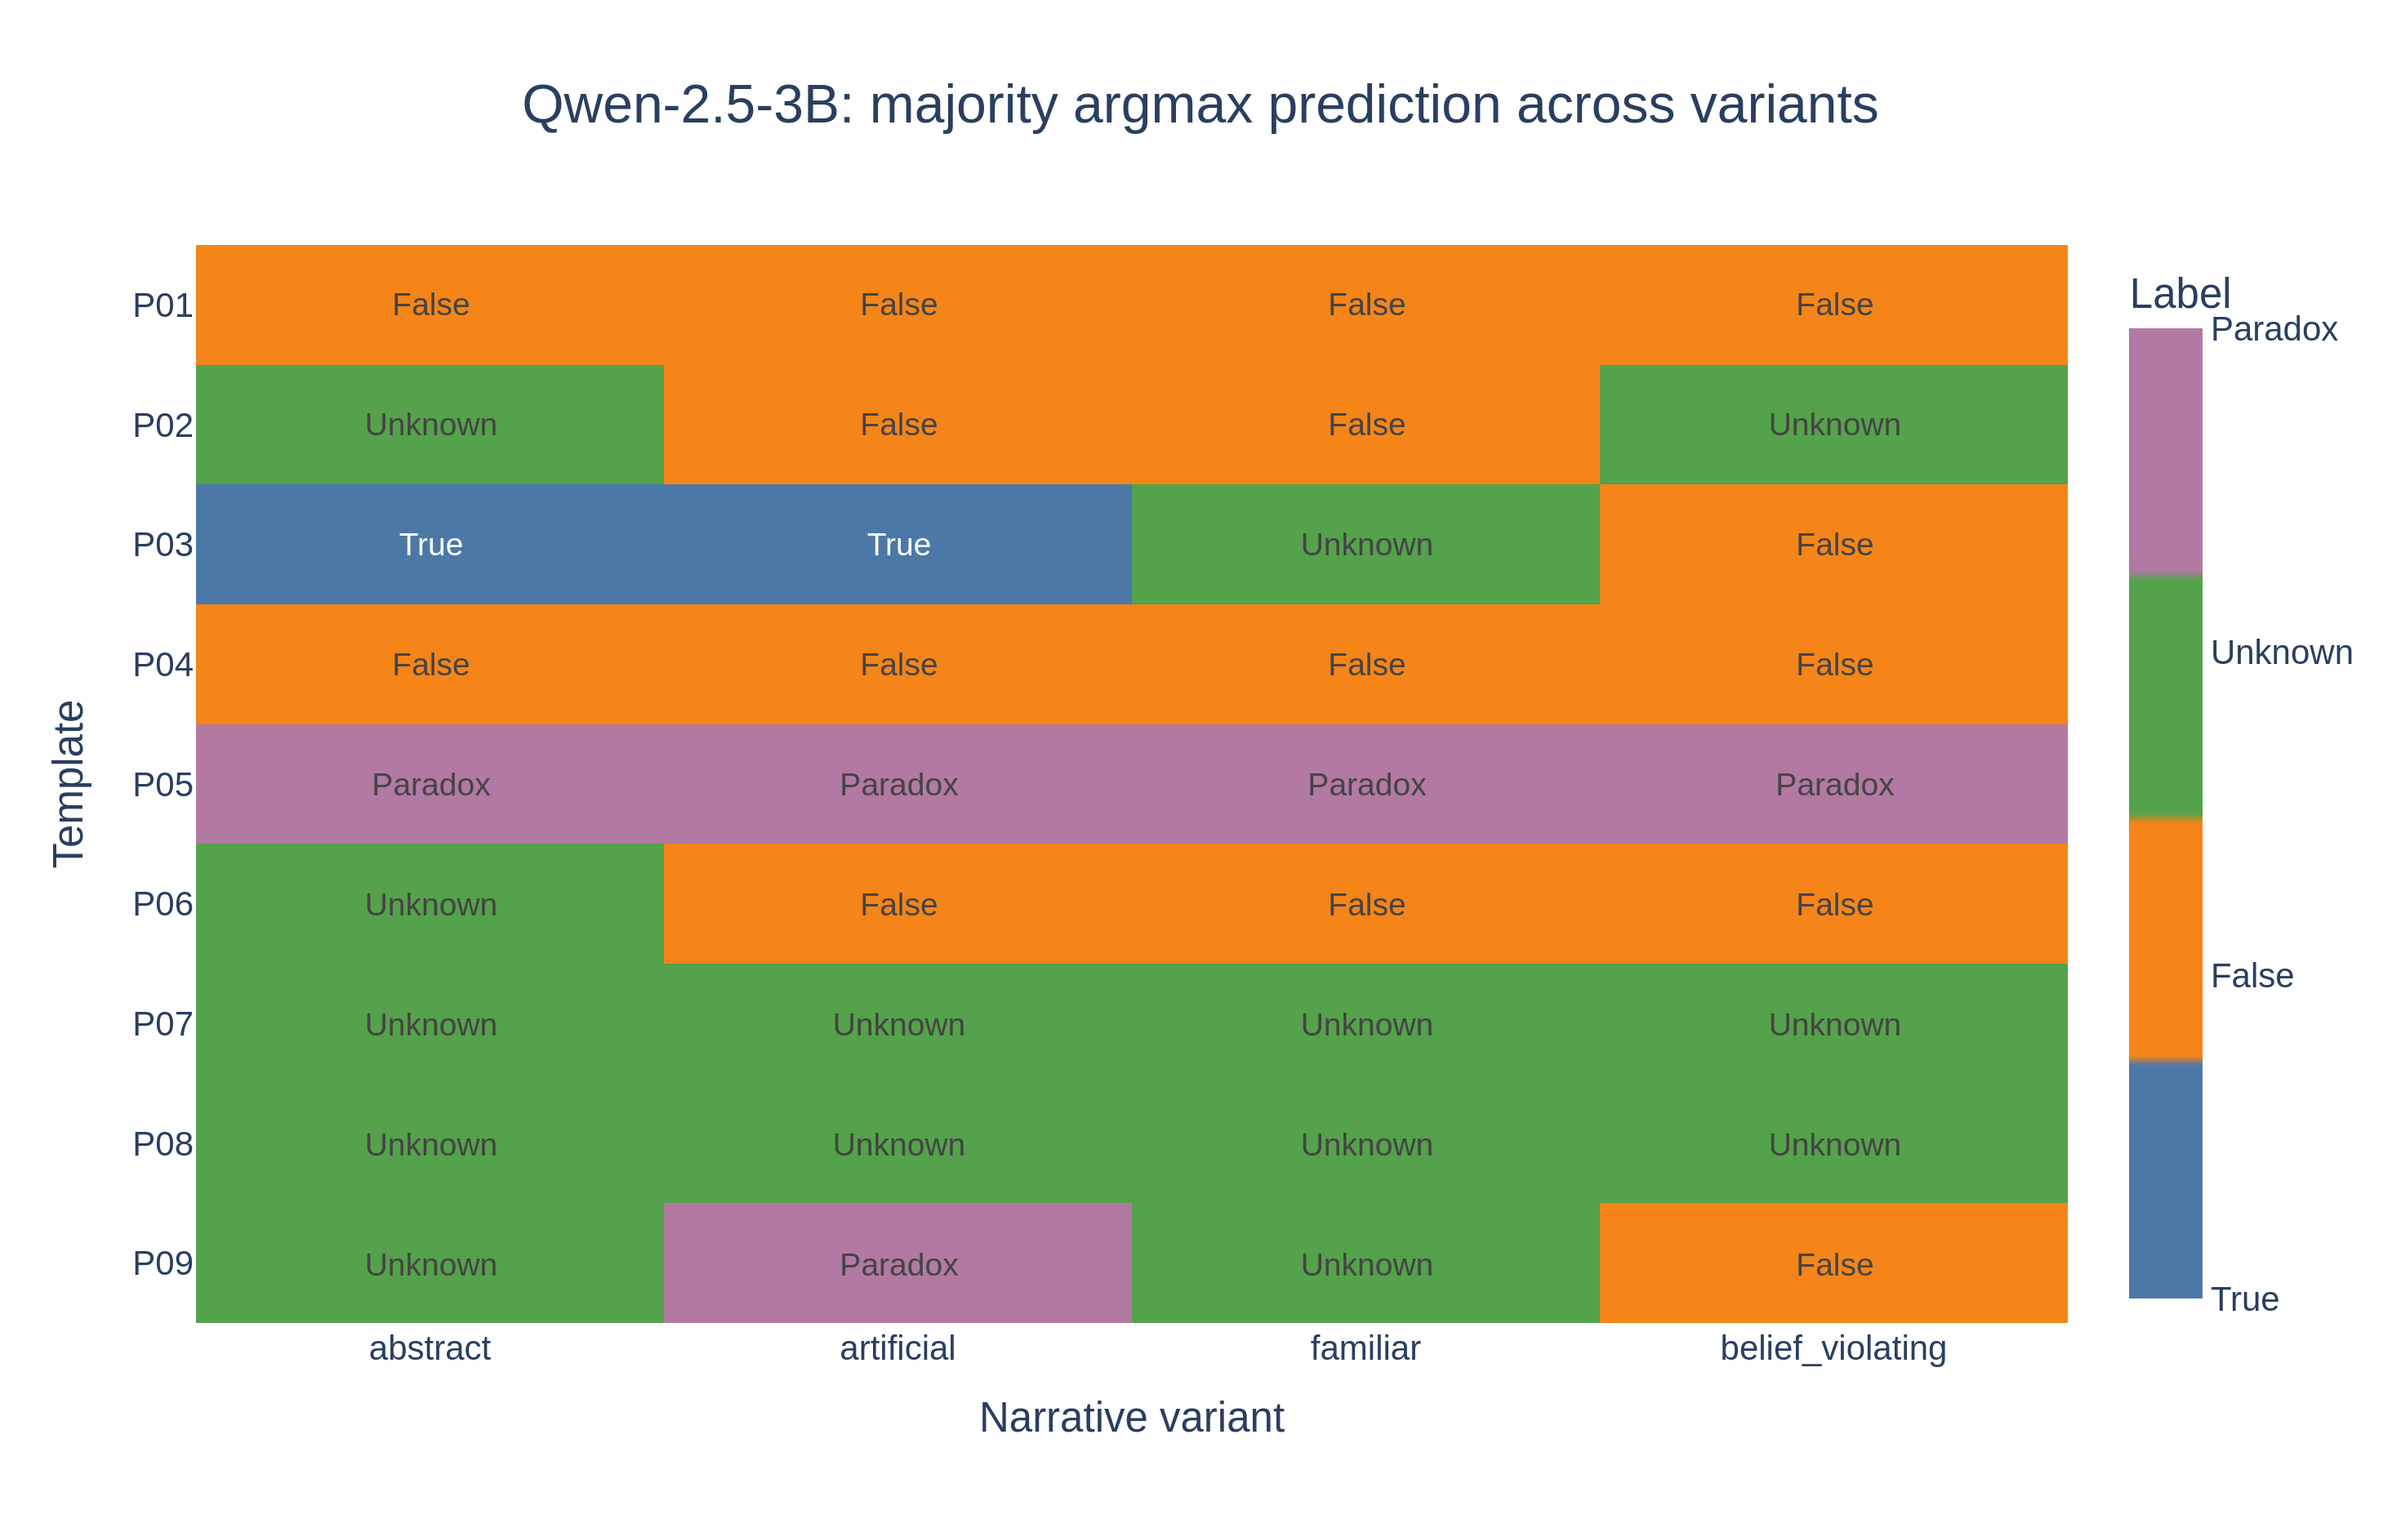
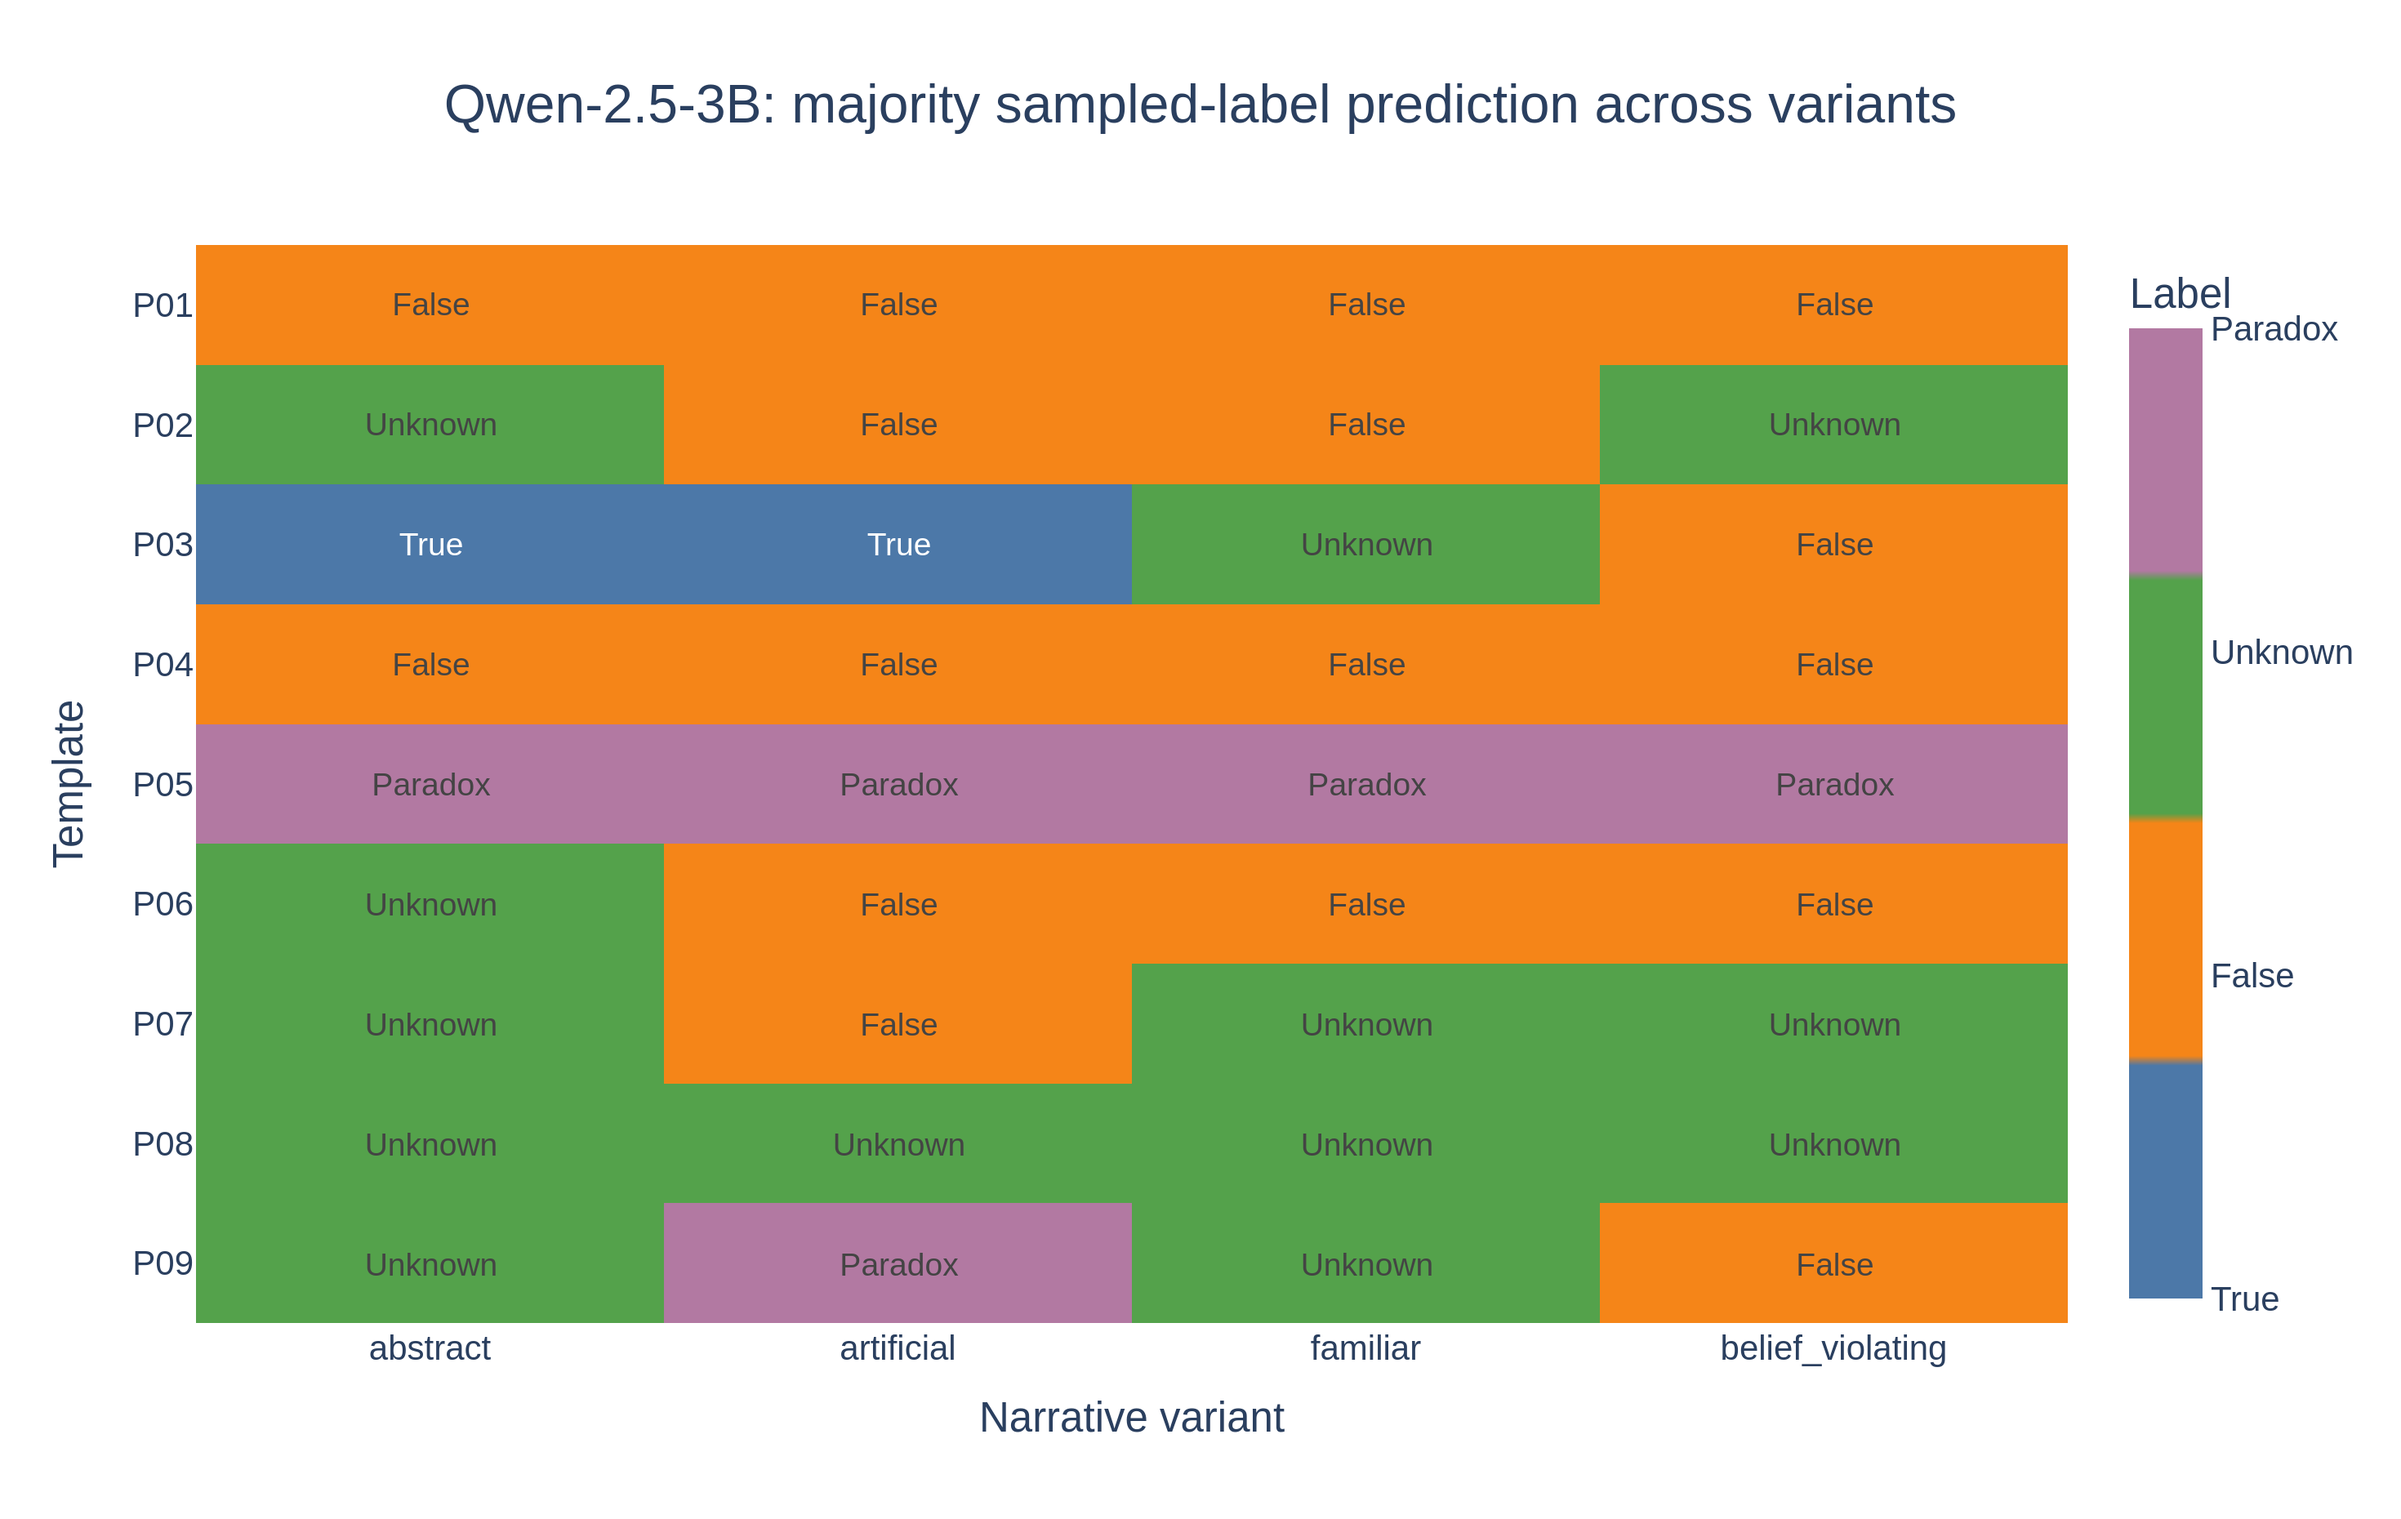
Standardize majority-vote computation across analysis scripts
Align make_behavioral_figures.py with the methodology already in
src.analyze:

- Vote on sampled_label (was argmax_label).
- Filter rows where is_invalid is true before voting.
- Tie-break deterministically using LABEL_ORDER (replaces the
  nondeterministic pandas value_counts().index[0]).

A new modal_label helper mirrors src.analyze.modal_label so the two
scripts now apply identical voting rules. The behavioral CSVs are
unchanged. Regenerated fig_10a, fig_10b, and
table_10_cross_variant_consistency.csv reflect the new rule: 5 of 18
(template, variant) majorities flip versus the previous argmax-based
table (most on Llama, where sampled and argmax labels diverge more
often). Updated figure titles and README descriptions to reflect that
majorities are computed over sampled labels.

Changed region(s): [[0.2786, 0.6237, 0.4952, 0.7172], [0.1857, 0.0624, 0.8048, 0.0935]]

diff --git a/analysis/make_behavioral_figures.py b/analysis/make_behavioral_figures.py
@@ -12,6 +12,7 @@ Usage:
 
 from __future__ import annotations
 
+from collections import Counter
 from pathlib import Path
 
 import pandas as pd
@@ -46,6 +47,23 @@ def to_bool(x) -> bool:
     return str(x).strip().lower() == "true"
 
 
+def modal_label(labels) -> str | None:
+    """Return the modal label with deterministic LABEL_ORDER tie-breaking.
+
+    Mirrors `src.analyze.modal_label`. Empty input returns None.
+    """
+    labels = list(labels)
+    if not labels:
+        return None
+    counts = Counter(labels)
+    max_count = max(counts.values())
+    tied = {label for label, count in counts.items() if count == max_count}
+    for label in LABEL_ORDER:
+        if label in tied:
+            return label
+    return next(iter(tied))
+
+
 def load_data() -> pd.DataFrame:
     qwen = pd.read_csv(QWEN_CSV)
     llama = pd.read_csv(LLAMA_CSV)
@@ -59,6 +77,7 @@ def load_data() -> pd.DataFrame:
     df["model_short"] = df["model_name"].apply(short_model_name)
     df["correct_sampled"] = df["correct_sampled"].apply(to_bool)
     df["correct_argmax"] = df["correct_argmax"].apply(to_bool)
+    df["is_invalid"] = df["is_invalid"].apply(to_bool)
     df["argmax_correctness"] = df["correct_argmax"].map({True: "Correct", False: "Incorrect"})
     return df
 
@@ -463,27 +482,32 @@ def fig_letter_bias(df: pd.DataFrame) -> None:
 
 
 def fig_cross_variant_majority(df: pd.DataFrame) -> None:
+    """Per-(model, template, variant) majority over sampled labels.
+
+    Matches `src.analyze`: filters out invalid rows before voting, votes
+    over `sampled_label` (not `argmax_label`), and breaks ties
+    deterministically using LABEL_ORDER via `modal_label`.
+    """
     template_order = sorted(df["template_id"].unique())
 
-    def majority_label(series):
-        return series.value_counts().index[0]
+    valid = df[~df["is_invalid"]]
 
     majority = (
-        df.groupby(["model_short", "template_id", "variant_type"])
-          .agg(majority_argmax_label=("argmax_label", majority_label),
-               gold_label=("gold_label", "first"),
-               n=("argmax_label", "size"))
-          .reset_index()
+        valid.groupby(["model_short", "template_id", "variant_type"])
+             .agg(majority_label=("sampled_label", modal_label),
+                  gold_label=("gold_label", "first"),
+                  n_valid=("sampled_label", "size"))
+             .reset_index()
     )
-    majority["majority_correct"] = majority["majority_argmax_label"] == majority["gold_label"]
+    majority["majority_correct"] = majority["majority_label"] == majority["gold_label"]
 
     consistency = (
         majority.groupby(["model_short", "template_id"])
-          .agg(n_unique_predictions=("majority_argmax_label", "nunique"),
-               predictions=("majority_argmax_label", lambda x: " | ".join(x)),
-               all_variants_same=("majority_argmax_label", lambda x: x.nunique() == 1),
-               gold_label=("gold_label", "first"))
-          .reset_index()
+                .agg(n_unique_predictions=("majority_label", "nunique"),
+                     predictions=("majority_label", lambda x: " | ".join(x)),
+                     all_variants_same=("majority_label", lambda x: x.nunique() == 1),
+                     gold_label=("gold_label", "first"))
+                .reset_index()
     )
     consistency["status"] = consistency["all_variants_same"].map(
         {True: "consistent", False: "variant-sensitive"}
@@ -502,27 +526,28 @@ def fig_cross_variant_majority(df: pd.DataFrame) -> None:
     for model, fname in [("Qwen-2.5-3B", "fig_10a_qwen_cross_variant_majority_prediction"),
                          ("Llama-3.2-3B", "fig_10b_llama_cross_variant_majority_prediction")]:
         model_data = majority[majority["model_short"] == model].copy()
-        model_data["label_code"] = model_data["majority_argmax_label"].map(label_to_code)
+        model_data["label_code"] = model_data["majority_label"].map(label_to_code)
 
         pivot_code = model_data.pivot(index="template_id", columns="variant_type",
                                       values="label_code") \
                                .reindex(index=template_order, columns=VARIANT_ORDER)
         pivot_text = model_data.pivot(index="template_id", columns="variant_type",
-                                      values="majority_argmax_label") \
+                                      values="majority_label") \
                                .reindex(index=template_order, columns=VARIANT_ORDER)
 
+        title = f"{model}: majority sampled-label prediction across variants"
         fig = px.imshow(
             pivot_code, text_auto=False, color_continuous_scale=color_scale,
             zmin=0, zmax=3,
             labels=dict(x="Narrative variant", y="Template", color="Majority label"),
-            title=f"{model}: majority argmax prediction across variants",
+            title=title,
             template="plotly_white", aspect="auto",
         )
         fig.update_traces(text=pivot_text.values, texttemplate="%{text}",
                           textfont={"size": 13})
         fig.update_layout(
             width=980, height=620,
-            title={"text": f"{model}: majority argmax prediction across variants",
+            title={"text": title,
                    "x": 0.5, "xanchor": "center", "font": {"size": 22}},
             font={"size": 14}, xaxis=dict(side="bottom"),
             coloraxis_colorbar=dict(title="Label", tickvals=[0, 1, 2, 3],

diff --git a/figures/behavioral/README.md b/figures/behavioral/README.md
@@ -35,6 +35,6 @@ Requires `pandas`, `plotly`, and `kaleido==0.2.1` (see `requirements.txt`).
 | `fig_08b_entropy_violin.png` | Violin version of the same comparison. |
 | `fig_09_mean_probability_by_answer_letter.png` | Mean probability assigned to each option letter A/B/C/D. |
 | `fig_09b_argmax_letter_distribution.png` | Distribution of argmax letters (positional bias check). |
-| `fig_10a_qwen_cross_variant_majority_prediction.png` | Qwen majority argmax prediction across narrative variants per template. |
-| `fig_10b_llama_cross_variant_majority_prediction.png` | Llama majority argmax prediction across narrative variants per template. |
-| `table_10_cross_variant_consistency.csv` | Per-template cross-variant consistency status (consistent vs variant-sensitive). |
+| `fig_10a_qwen_cross_variant_majority_prediction.png` | Qwen majority sampled-label prediction per (template, narrative variant). Invalid rows excluded; ties broken in LABEL_ORDER. |
+| `fig_10b_llama_cross_variant_majority_prediction.png` | Llama majority sampled-label prediction per (template, narrative variant). Same conventions. |
+| `table_10_cross_variant_consistency.csv` | Per-template cross-variant consistency status (consistent vs variant-sensitive), computed on the majority sampled labels. |
